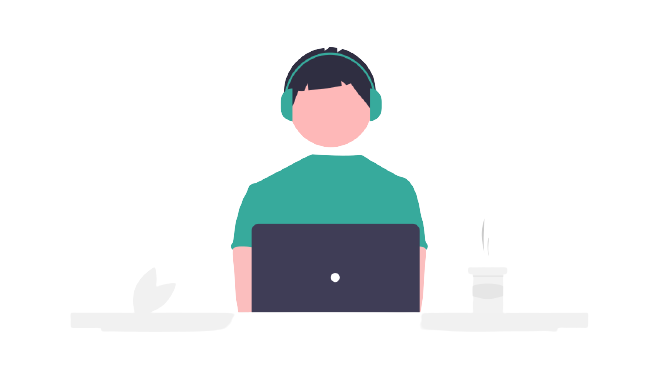
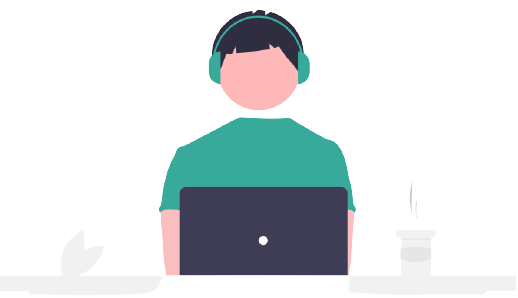
Añadida vista blog en desarollo

diff --git a/src/views/Blog.vue b/src/views/Blog.vue
@@ -3,7 +3,7 @@
 		<img src="../assets/desarrollo.png" alt="img blog en desarollo" />
 		<div class="container">
 			<h2>Blog Actualmente En Desarrollo</h2>
-			<button>Volver al inicio</button>
+			<router-link to="/"><button>Volver al inicio</button></router-link>
 		</div>
 	</div>
 </template>
@@ -21,8 +21,8 @@ export default {};
 	height: 100vh;
 	background-color: #1b1b1b;
 	img {
-		width: 35rem;
-		height: 20rem;
+		width: 30rem;
+		height: 17rem;
 		margin-left: -5rem;
 	}
 	h2 {
@@ -30,8 +30,14 @@ export default {};
 			"Open Sans", "Helvetica Neue", sans-serif;
 		color: white;
 		margin-bottom: 5rem;
+		margin-left: auto;
+		margin-right: auto;
+		width: 70%;
+		text-align: center;
 	}
 	button {
+		margin-left: auto;
+		margin-right: auto;
 		margin: 2rem 2rem;
 		padding: 0.5rem;
 		border: none;
@@ -54,6 +60,38 @@ export default {};
 	}
 	.container {
 		text-align: center;
+	}
+}
+@media (max-width: 2000px) {
+}
+@media (max-width: 1200px) {
+	.Blog {
+		display: grid;
+		grid-template-columns: 1fr;
+		justify-content: center;
+		text-align: center;
+		h2 {
+			margin-bottom: 1rem;
+			margin-top: -9rem;
+		}
+		img {
+			margin: 0 auto;
+			padding: 0;
+		}
+	}
+}
+@media (max-width: 900px) {
+}
+@media (max-width: 900px) {
+}
+@media (max-width: 650px) {
+}
+@media (max-width: 450px) {
+	.Blog {
+		img {
+			width: 17rem;
+			height: 10rem;
+		}
 	}
 }
 </style>
